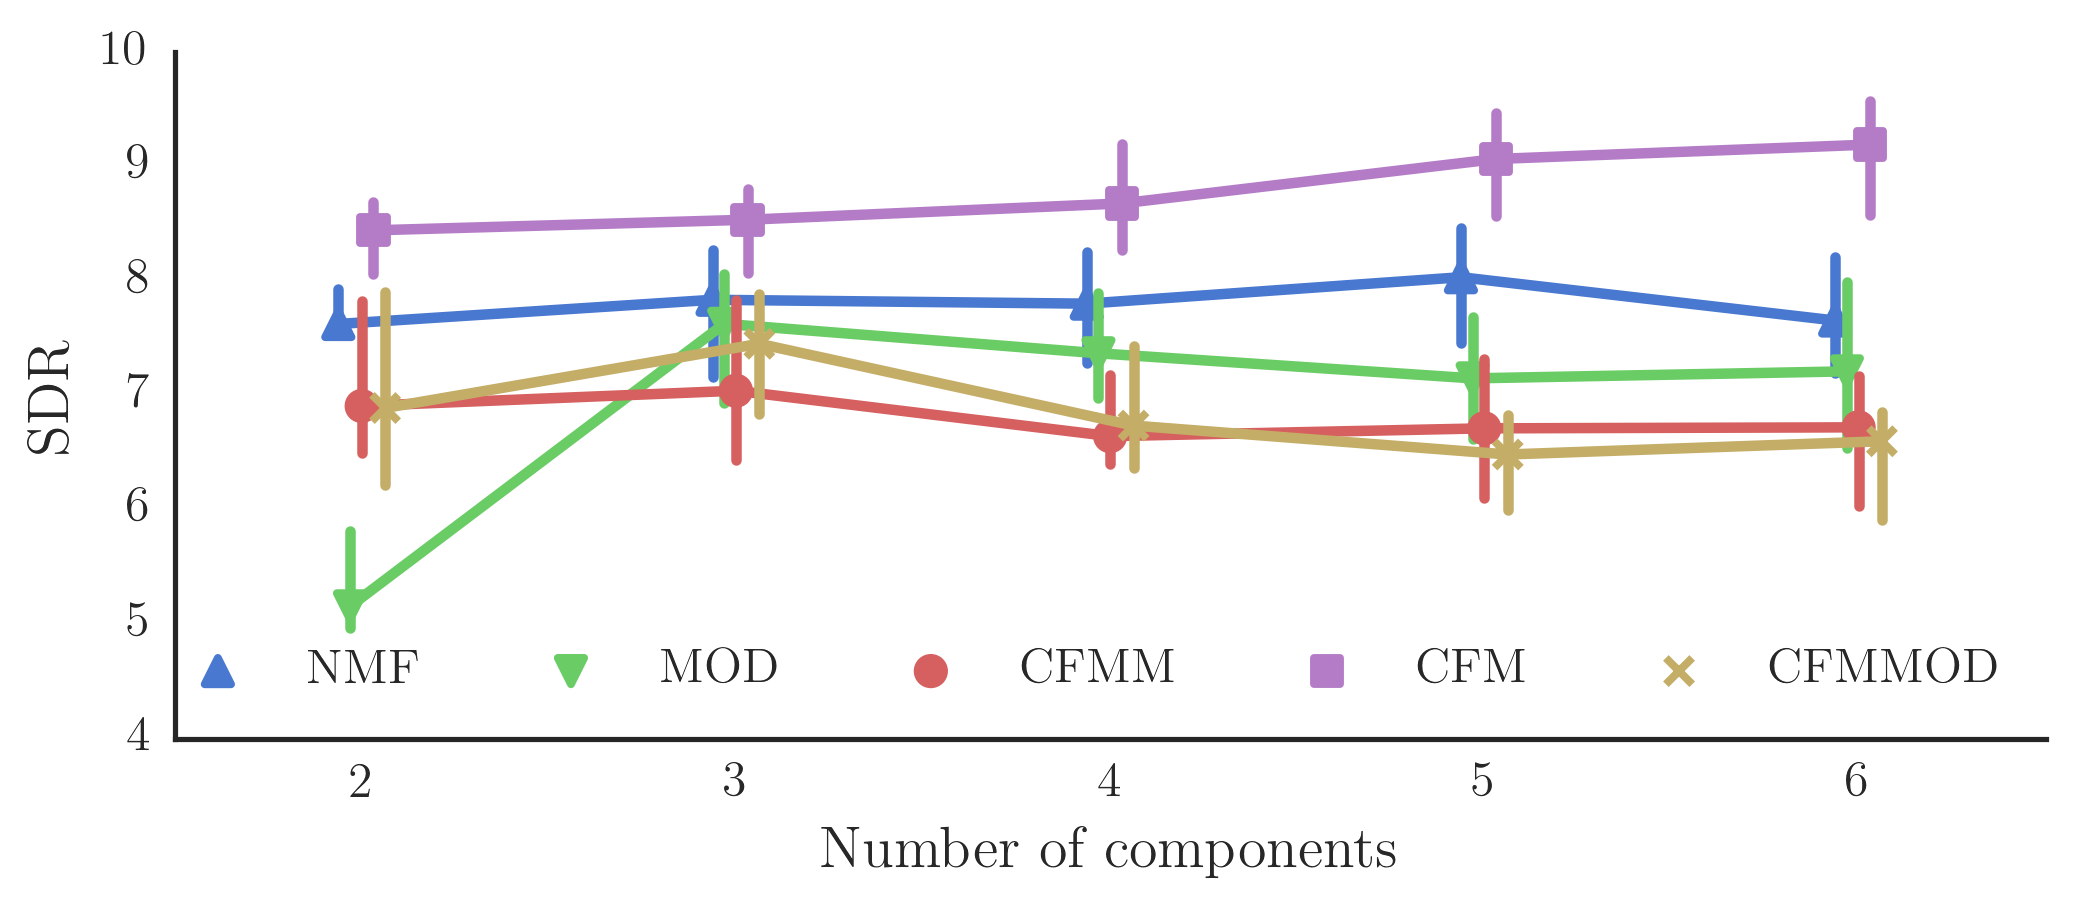
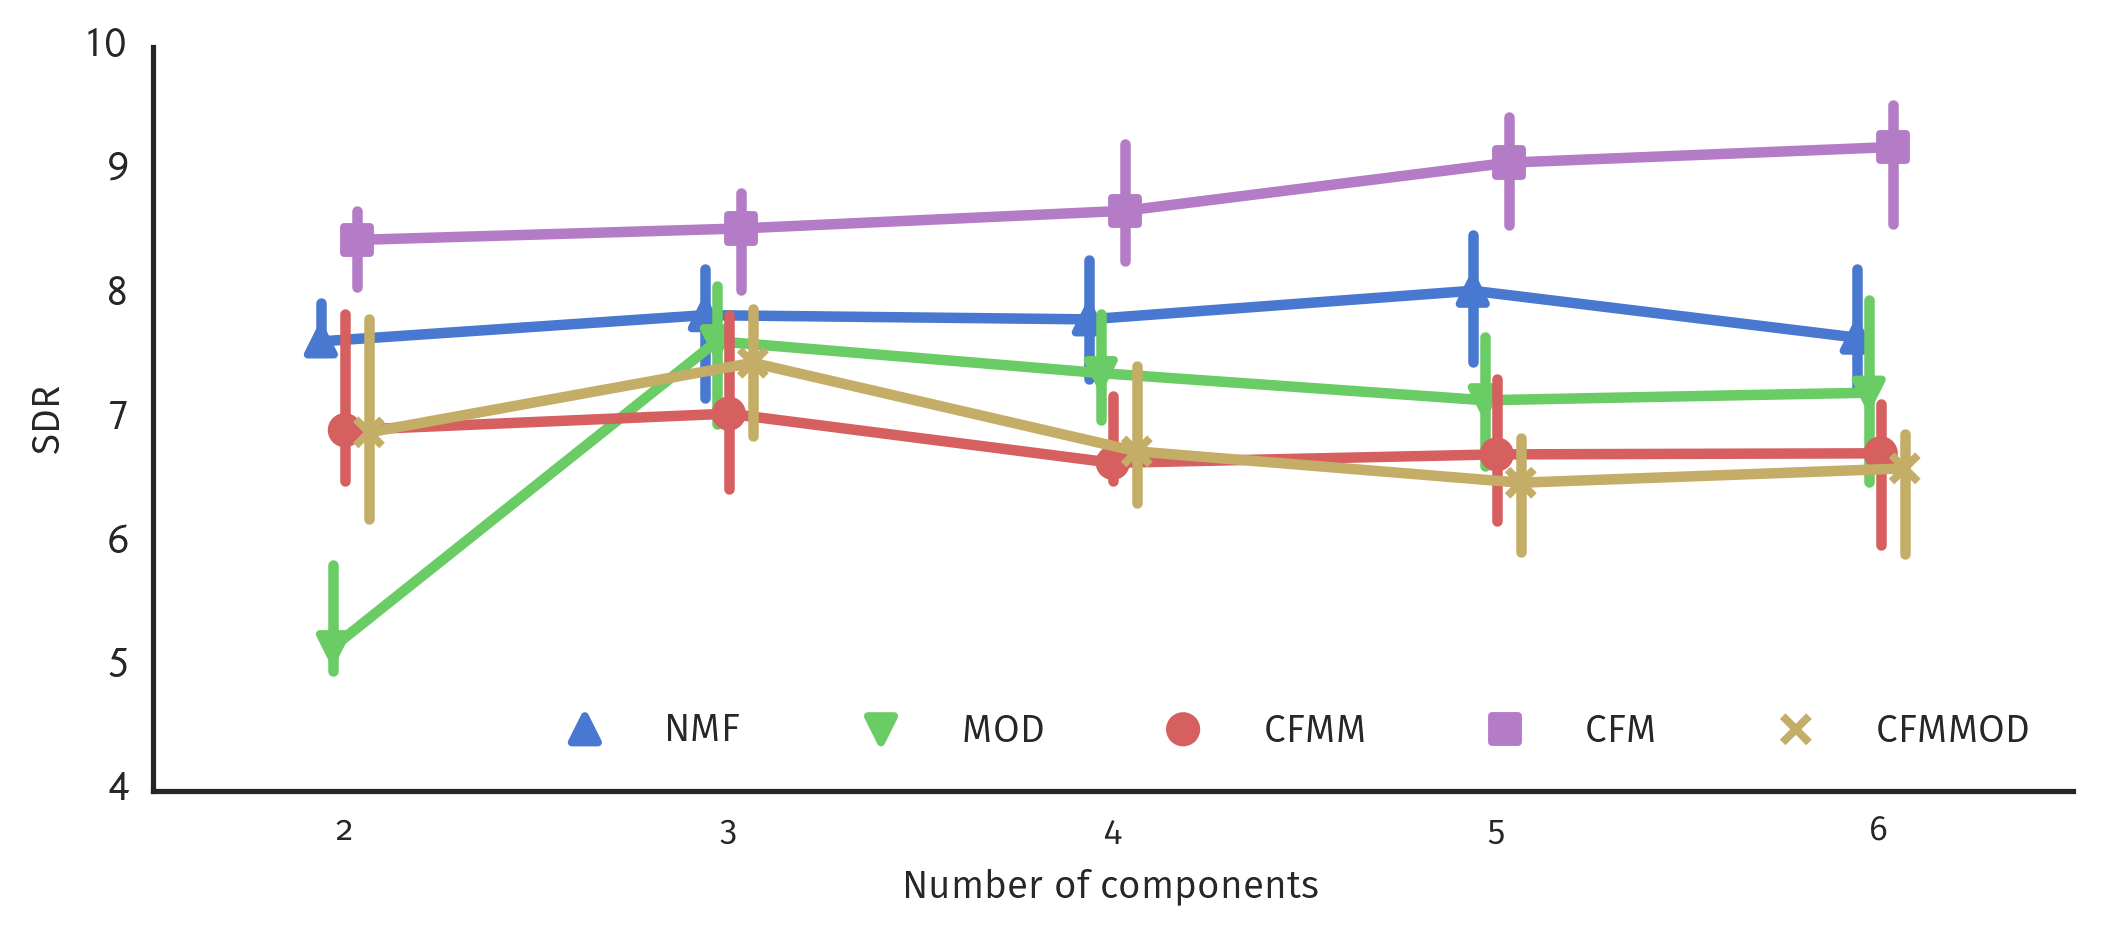
making iterations plot slide-friendly

diff --git a/index.html b/index.html
@@ -59,6 +59,11 @@
 					<h2>Evaluation Results</h2>
 					<img src="images/boxplot.png" alt="" />
 				</section>
+				<section>
+					<h2>Number of Components</h2>
+					<img src="images/iterations.png" alt="" />
+				</section>
+
 			<div class='footer'>
 				<div id="copyright">&#9400; AudioLabs, 2015</div>
 				<div id="middlebox">Common Fate Model for Unison Source Separation </div>

diff --git a/data/make_sdriteration.py b/data/make_sdriteration.py
@@ -5,7 +5,6 @@ import math
 import pandas as pd
 import seaborn as sns
 import matplotlib as mpl
-from matplotlib.transforms import BlendedGenericTransform
 from numpy import median
 
 if __name__ == '__main__':
@@ -18,14 +17,24 @@ if __name__ == '__main__':
     args = parser.parse_args()
 
     plt.rc('text', usetex=True)
-    mpl.rcParams['font.family'] = 'serif'
+    plt.rc('font', family='FiraSans')
+
+    mpl.rcParams['text.latex.preamble'] = [
+        r"\usepackage[sfdefault,scaled=.85]{FiraSans}",
+        r"\usepackage[T1]{fontenc}",
+        r"\usepackage{textcomp}",
+        r"\usepackage[varqu,varl]{zi4}",
+        r"\usepackage{amsmath,amsthm}",
+        r"\usepackage[cmintegrals]{newtxsf}"
+    ]
+    mpl.rcParams['font.family'] = 'sans-serif'
+    mpl.rcParams['font.sans-serif'] = 'FiraSans'
     mpl.rcParams['text.latex.unicode'] = 'True'
 
     sns.set()
     sns.set_context("paper")
     sns.set_style(
         "white", {
-            "grid.color": '.9',
             "font.family":
             "serif", 'font.serif':
             'ptmrr8re'
@@ -40,15 +49,15 @@ if __name__ == '__main__':
     fig_size = np.array([fig_width, fig_height])
 
     params = {'backend': 'ps',
-              'axes.labelsize': 14,
-              'font.size': 14,
-              'legend.fontsize': 12,
-              'xtick.labelsize': 12,
-              'ytick.labelsize': 12,
+              'axes.labelsize': 11,
+              'legend.fontsize': 11,
+              'xtick.labelsize': 10,
+              'ytick.labelsize': 10,
               'text.usetex': True,
-              'font.family': 'serif',
-              'font.serif': 'ptmrr8re',
-              'figure.figsize': fig_size * 2}
+              'font.family': 'sans-serif',
+              'font.sans-serif': 'FiraSans',
+              'font.size': 11,
+              'figure.figsize': fig_size}
 
     plt.rcParams.update(params)
 
